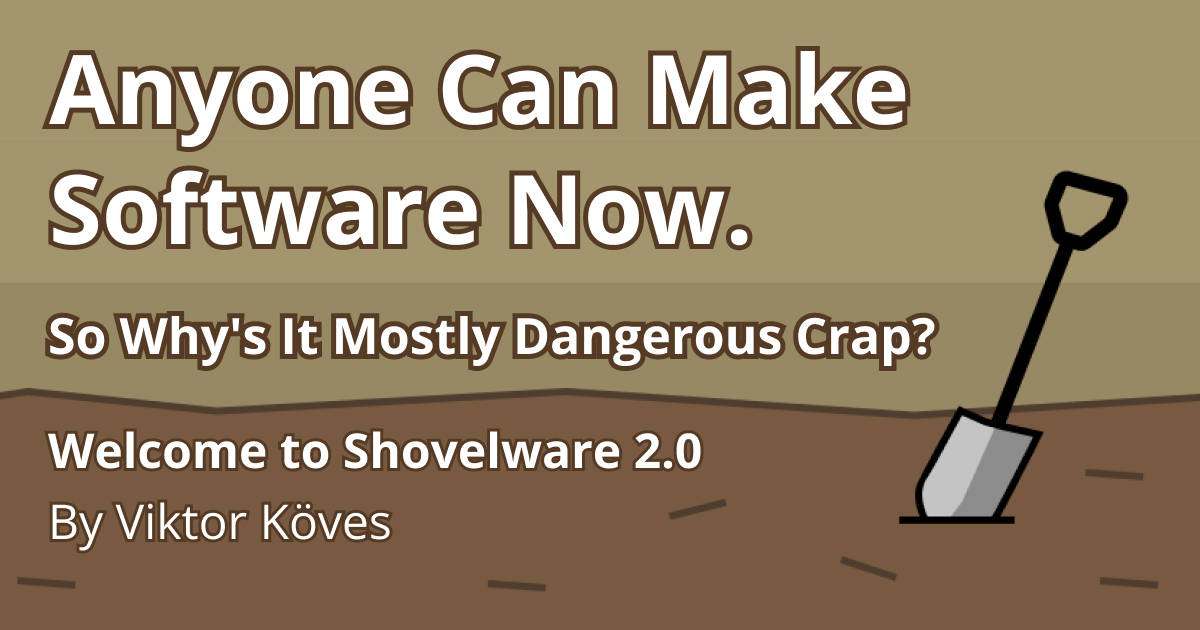
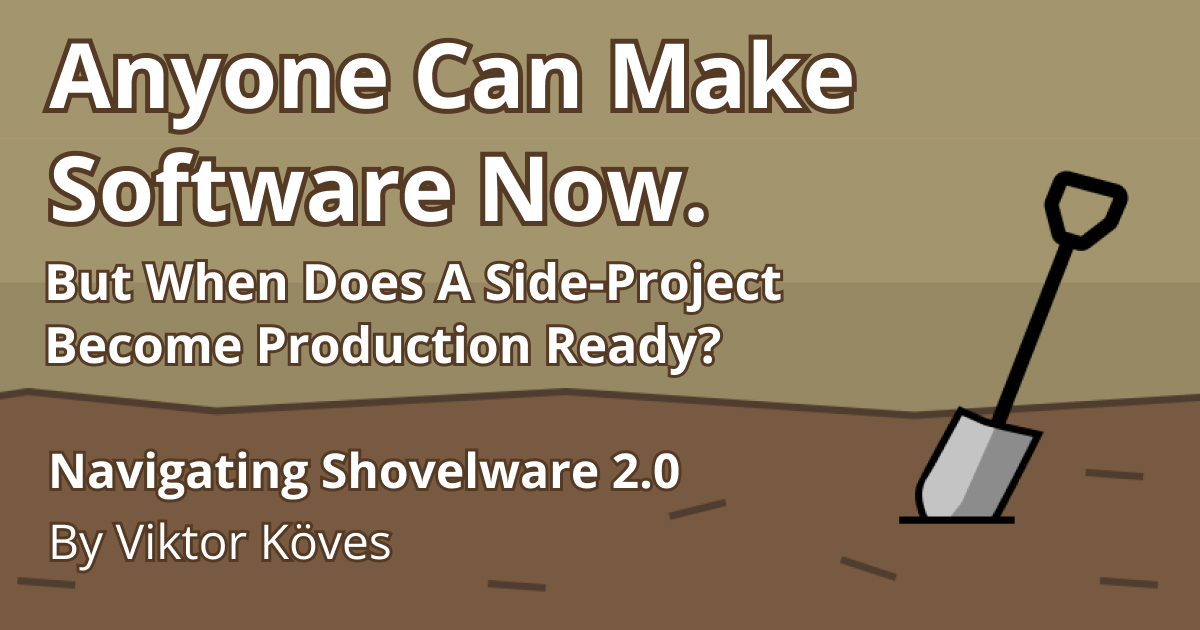
Rename AI article for better balance The original title was more negative than the actual article

Changed region(s): [[0.0308, 0.0302, 0.8017, 0.6032], [0.0308, 0.6635, 0.5858, 0.9048]]

diff --git a/_posts/2025-05-25-ai-and-shovelware-2.0.md b/_posts/2025-05-25-ai-and-shovelware-2.0.md
@@ -1,7 +1,7 @@
 ---
 layout: post
 pageClass: 'content-limiter -page -no-padding-top'
-title: Anyone Can Make Software Now. So Why's It Mostly Dangerous Crap?
+title: Anyone Can Make Software Now. But When Does A Side-Project Become Production Ready?
 excerpt: Agentic coding tools have brought AI smashing into the software industry, but despite a year of waiting, there hasn't been a corresponding rise in the quality of software. Welcome to the era of Shovelware 2.0
 skipPostTitle: true
 metadata:
@@ -21,10 +21,10 @@ stylesheets:
   <div class="text content-limiter">
     <h1>
       <div class="line-1">Anyone Can Make Software Now.</div>
-      <div class="line-2">So Why's It Mostly Dangerous Crap?</div>
+      <div class="line-2">But When Does A Side-Project Become Production Ready?</div>
     </h1>
 
-    <div class="subtitle">Welcome to Shovelware 2.0</div>
+    <div class="subtitle">Navigating An Era of Shovelware 2.0</div>
   </div>
 </div>
 
